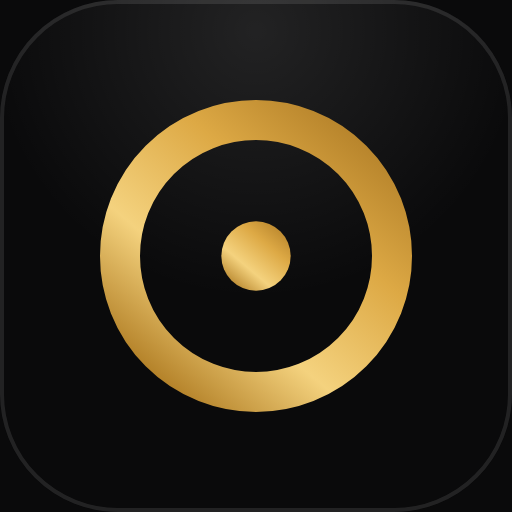
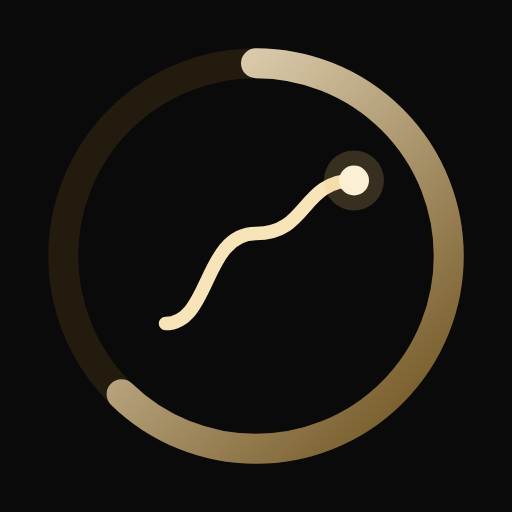
Adoptar el ícono provisto por el usuario
Anillo de progreso dorado con una curva ascendente sobre negro, tal cual
lo entregó el usuario.

Se aplica en los tres lugares que lo usan: el archivo del ícono, los PNG
que genera el build y la constante que la app rasteriza en runtime para el
ícono de pantalla de inicio. El encabezado lleva la misma marca, para no
volver a tener dos dibujos distintos para la misma app.

El color de tema y el fondo del manifest pasan al negro del ícono, para
que al abrirla desde la pantalla de inicio no haya un destello claro antes
de que cargue.

Comprobado a 60 px, que es el tamaño real en la pantalla de inicio: el
anillo y la curva se leen, y sobre fondo claro y oscuro se distingue del
resto de los íconos.

Claude-Session: https://claude.ai/code/session_01CU2WqosWqRh8t7YXoCa56s

diff --git a/assets/app.js b/assets/app.js
@@ -2529,7 +2529,7 @@ function openModal(title, value, note, onConfirm) {
    <head>, así que iOS caía en el favicon y mostraba un emoji. Se inserta en
    tiempo de ejecución: la marca se rasteriza a PNG en un canvas, que es la
    única forma de tener el ícono real sin un <head> propio. */
-const MARCA_SVG = '<svg xmlns="http://www.w3.org/2000/svg" viewBox="0 0 192 192"> <defs> <linearGradient id="oro" x1="0.1" y1="1" x2="0.9" y2="0.05"> <stop offset="0" stop-color="#A9741A"/><stop offset="0.35" stop-color="#F4D27E"/> <stop offset="0.7" stop-color="#DDA945"/><stop offset="1" stop-color="#B5822A"/> </linearGradient> <radialGradient id="borde" cx="0.5" cy="0.06" r="0.95"> <stop offset="0" stop-color="#ffffff" stop-opacity="0.10"/> <stop offset="0.55" stop-color="#ffffff" stop-opacity="0"/> </radialGradient> </defs> <rect width="192" height="192" rx="44" fill="#0A0A0B"/> <rect width="192" height="192" rx="44" fill="url(#borde)"/> <rect x="0.75" y="0.75" width="190.5" height="190.5" rx="43.5" fill="none" stroke="#ffffff" stroke-opacity="0.10" stroke-width="1.5"/> <circle cx="96" cy="96" r="51" fill="none" stroke="url(#oro)" stroke-width="15"/> <circle cx="96" cy="96" r="13" fill="url(#oro)"/> </svg>';
+const MARCA_SVG = '<svg width="1024" height="1024" viewBox="0 0 1024 1024" xmlns="http://www.w3.org/2000/svg" role="img" aria-label="Desafio Bici + Soga"> <defs> <linearGradient id="ringGrad" x1="0%" y1="100%" x2="100%" y2="0%"> <stop offset="0%" stop-color="#6B4E1A"/> <stop offset="100%" stop-color="#FBEFD6"/> </linearGradient> </defs> <rect width="1024" height="1024" fill="#0A0A0A"/> <circle cx="512" cy="512" r="385.5" fill="none" stroke="#221B0E" stroke-width="60"/> <circle cx="512" cy="512" r="385.5" fill="none" stroke="url(#ringGrad)" stroke-width="60" stroke-linecap="round" stroke-dasharray="1508 2422" transform="rotate(-90 512 512)"/> <path d="M331,647 C421,647 407,467 512,467 C617,467 602,361 708,361" fill="none" stroke="#F7E4B8" stroke-width="27" stroke-linecap="round"/> <circle cx="708" cy="361" r="60" fill="#E9C27A" opacity="0.2"/> <circle cx="708" cy="361" r="30" fill="#FBEFD6"/> </svg>';
 
 function ponerIconoDeInicio() {
   if (document.querySelector('link[rel="apple-touch-icon"]')) return;

diff --git a/index.html b/index.html
@@ -3,7 +3,7 @@
 <head>
 <meta charset="utf-8">
 <meta name="viewport" content="width=device-width, initial-scale=1, viewport-fit=cover">
-<meta name="theme-color" content="#131519">
+<meta name="theme-color" content="#0A0A0A">
 <title>Desafío Bici + Soga</title>
 <link rel="manifest" href="manifest.json">
 <!-- iOS ignora los íconos del manifest: para "Agregar a inicio" necesita
@@ -20,18 +20,7 @@
 
   <header class="topbar">
     <div class="brand">
-      <svg viewBox="0 0 192 192" class="logo-mark" aria-hidden="true">
-<defs>
-  <linearGradient id="lgo" x1="0.1" y1="1" x2="0.9" y2="0.05">
-    <stop offset="0" stop-color="#A9741A"/><stop offset="0.35" stop-color="#F4D27E"/>
-    <stop offset="0.7" stop-color="#DDA945"/><stop offset="1" stop-color="#B5822A"/>
-  </linearGradient>
-</defs>
-<rect width="192" height="192" rx="44" fill="#0A0A0B"/>
-<rect x="1" y="1" width="190" height="190" rx="43.5" fill="none" stroke="#ffffff" stroke-opacity="0.12" stroke-width="2"/>
-<circle cx="96" cy="96" r="51" fill="none" stroke="url(#lgo)" stroke-width="15"/>
-<circle cx="96" cy="96" r="13" fill="url(#lgo)"/>
-</svg>
+      <svg viewBox="0 0 1024 1024" class="logo-mark" aria-hidden="true"> <defs> <linearGradient id="lgoGrad" x1="0%" y1="100%" x2="100%" y2="0%"> <stop offset="0%" stop-color="#6B4E1A"/> <stop offset="100%" stop-color="#FBEFD6"/> </linearGradient> </defs> <rect width="1024" height="1024" fill="#0A0A0A"/> <circle cx="512" cy="512" r="385.5" fill="none" stroke="#221B0E" stroke-width="60"/> <circle cx="512" cy="512" r="385.5" fill="none" stroke="url(#lgoGrad)" stroke-width="60" stroke-linecap="round" stroke-dasharray="1508 2422" transform="rotate(-90 512 512)"/> <path d="M331,647 C421,647 407,467 512,467 C617,467 602,361 708,361" fill="none" stroke="#F7E4B8" stroke-width="27" stroke-linecap="round"/> <circle cx="708" cy="361" r="60" fill="#E9C27A" opacity="0.2"/> <circle cx="708" cy="361" r="30" fill="#FBEFD6"/> </svg>
       <div>
         <h1>Desafío Bici + Soga</h1>
         <p id="topbarSub">—</p>

diff --git a/README.md b/README.md
@@ -237,9 +237,9 @@ tools/              utilidades de build
 tests/              recorrido de extremo a extremo y generador de fixtures
 ```
 
-El ícono es una rueda de bicicleta dorada sobre negro: una sola forma, pensada para leerse a 60 px
-entre íconos planos y saturados, donde el fondo negro es justamente lo que lo distingue. El
-encabezado usa la misma marca con el aro más grueso, porque a 38 px el trazo fino se pierde.
+El ícono es un anillo de progreso dorado con una curva ascendente sobre negro. Vive en
+`assets/icon.svg` y es la única fuente: de ahí salen los PNG y el que la app rasteriza en runtime
+para el ícono de pantalla de inicio, así que cambiarlo en un solo lugar lo cambia en todos.
 
 Sin dependencias, sin build step ni pedidos de red: los `.zip` se abren con `DecompressionStream` y
 los archivos del reloj se leen con `DOMParser`, todo en el navegador, los gráficos son SVG generados a mano y las
